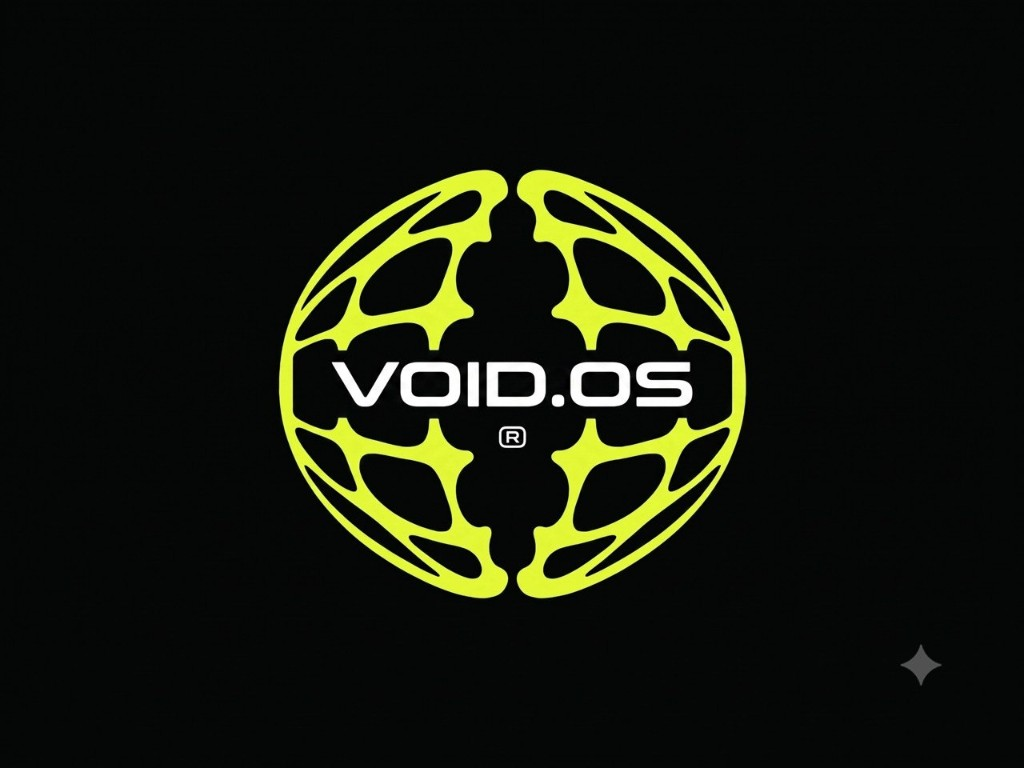
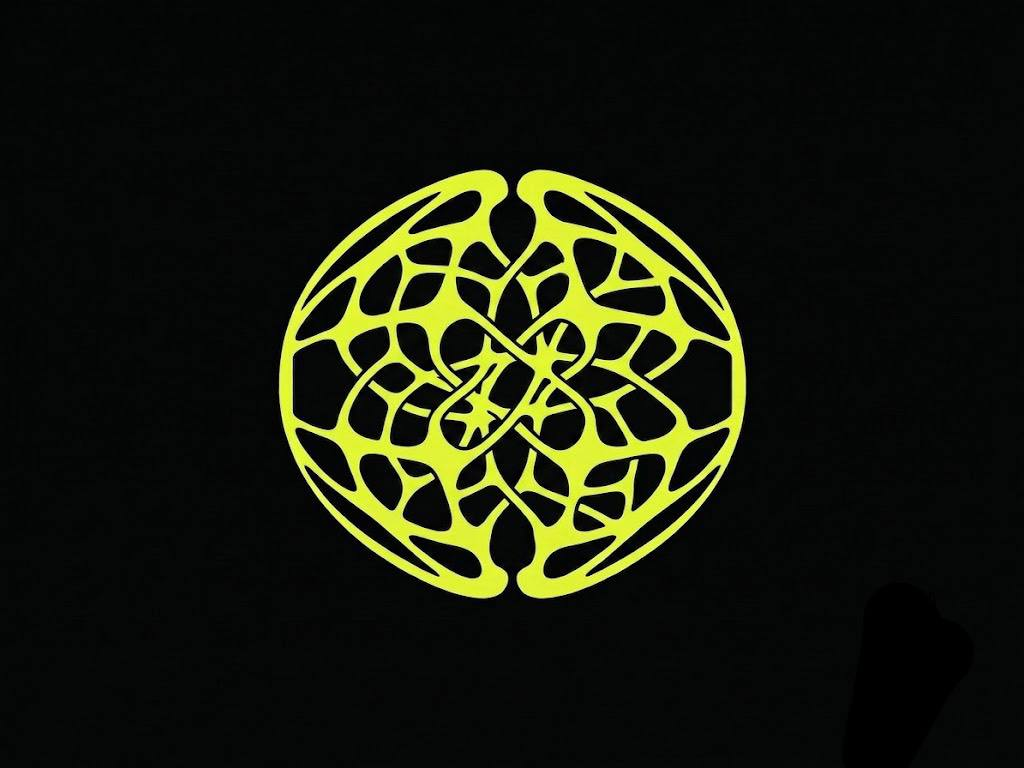
Swap in the new lime mark and keep the mobile hero demo card from covering the copy.

diff --git a/src/legacy/void.css b/src/legacy/void.css
@@ -75,14 +75,19 @@ body{background:#000;color:var(--text);font-family:'IBM Plex Mono',monospace;ove
 .hero-cosmos-slot{
   position:relative;z-index:8;
   width:100%;
+  max-width:100%;
   height:calc(100dvh - 108px);
   min-height:calc(100dvh - 108px);
   max-height:none;
   margin-right:clamp(-8px,-2vw,-24px);
+  overflow:hidden;
+  box-sizing:border-box;
 }
 .hero-cosmos-slot > .relative{
   height:100%;
   min-height:100%;
+  max-width:100%;
+  overflow:hidden;
 }
 .hero-right{
   position:relative;z-index:8;
@@ -217,7 +222,7 @@ body.arena-live .cosmos-bar,
   color:var(--text);font-family:'Syne',sans-serif;font-weight:800;font-size:12px;
   transition:border-color .18s ease-out,background .18s ease-out;
 }
-.arena-home img{width:18px;height:18px;border-radius:50%}
+.arena-home img{width:22px;height:22px;border-radius:50%;object-fit:cover}
 .arena-home em{font-style:normal;color:var(--lime)}
 .arena-home:hover{border-color:var(--lime);background:rgba(204,255,0,.08)}
 
@@ -919,8 +924,8 @@ body.arena-live .void-toast.claim.show{
      stretching to fill that leftover height is what let the cosmos slot's
      box — and the absolute-positioned LIVE DEMO prompt inside it — grow
      past its real content height and bleed into the section below. */
-  .hero{grid-template-columns:1fr;align-content:start;padding-top:max(72px, calc(env(safe-area-inset-top) + 56px));gap:12px;padding-bottom:16px;padding-left:max(12px, env(safe-area-inset-left));padding-right:max(12px, env(safe-area-inset-right))}
-  .hero-left{order:1;min-width:0;width:100%}
+  .hero{grid-template-columns:1fr;align-content:start;padding-top:max(72px, calc(env(safe-area-inset-top) + 56px));gap:12px;padding-bottom:16px;padding-left:max(16px, env(safe-area-inset-left));padding-right:max(16px, env(safe-area-inset-right));overflow-x:hidden}
+  .hero-left{order:1;min-width:0;width:100%;max-width:100%;overflow:visible;z-index:14}
   /* Slot/right sizing at this breakpoint lives in phoneMap.css (loaded
      after this file everywhere it's imported, so it's the rule that
      actually wins) — a second, differently-numbered copy used to be

diff --git a/src/components/Hero.jsx b/src/components/Hero.jsx
@@ -255,14 +255,14 @@ export function Hero() {
                 animate={{ opacity: 1 }}
                 exit={{ opacity: 0 }}
                 transition={{ duration: 0.4, ease: EASE_OUT }}
-                className="hero-map-prompt absolute inset-0 z-30 flex items-center justify-center bg-black/55 backdrop-blur-md pointer-events-none"
+                className="hero-map-prompt absolute inset-0 z-30 flex items-center justify-center overflow-hidden bg-black/55 backdrop-blur-md pointer-events-none"
               >
                 <motion.div
                   initial={{ opacity: 0, scale: 0.95, y: 10 }}
                   animate={{ opacity: 1, scale: 1, y: 0 }}
                   exit={{ opacity: 0, scale: 0.95, y: 10 }}
                   transition={{ type: 'spring', stiffness: 260, damping: 24 }}
-                  className="pointer-events-auto my-6 w-[90vw] max-w-xs mx-auto rounded-2xl border border-lime/25 bg-black/80 p-6 text-center shadow-[0_0_40px_rgba(204,255,0,0.12)]"
+                  className="pointer-events-auto mx-3 my-3 w-full max-w-[18rem] max-h-full overflow-y-auto rounded-2xl border border-lime/25 bg-black/80 p-5 text-center shadow-[0_0_40px_rgba(204,255,0,0.12)] sm:p-6"
                 >
                   <p className="mb-1 text-[10px] tracking-[0.2em] text-lime/70">LIVE DEMO</p>
                   <h3 className="mb-2 font-display text-lg font-extrabold text-white">

diff --git a/index.html b/index.html
@@ -27,7 +27,7 @@
   </head>
   <body>
     <div id="boot-html" style="position:fixed;inset:0;z-index:500000;display:flex;flex-direction:column;align-items:center;justify-content:center;background:#050505;color:#f0f0f0;font-family:IBM Plex Mono,ui-monospace,monospace">
-      <img src="/assets/void-logo.png" alt="" width="32" height="32" style="margin-bottom:16px" />
+      <img src="/assets/void-logo.png" alt="" width="40" height="40" style="margin-bottom:16px;border-radius:50%;object-fit:cover" />
       <div style="font-family:Syne,sans-serif;font-weight:800;font-size:28px;letter-spacing:-0.03em">VOID<span style="color:#ccff00">.OS</span></div>
       <div id="boot-html-cap" style="margin-top:12px;font-size:11px;letter-spacing:0.28em;text-transform:uppercase;color:#ccff00">booting</div>
     </div>

diff --git a/src/pages/Documentation.jsx b/src/pages/Documentation.jsx
@@ -209,7 +209,7 @@ function DocumentationContent() {
       <header className="sticky top-0 z-20 border-b border-white/10 bg-void/90 px-5 py-4 backdrop-blur-md sm:px-10">
         <div className="mx-auto flex max-w-5xl items-center justify-between">
           <Link to="/" className="flex items-center gap-2.5">
-            <img src="/assets/void-logo.png" alt="" className="h-6 w-6" />
+            <img src="/assets/void-logo.png" alt="" className="h-8 w-8 rounded-full object-cover" />
             <span className="font-display text-sm font-extrabold tracking-wide text-ink">
               VOID<span className="text-lime">.OS</span>{' '}
               <span className="text-muted-2">/ docs</span>

diff --git a/src/components/BootSplash.jsx b/src/components/BootSplash.jsx
@@ -83,7 +83,7 @@ export function BootSplash({ ready, onDone }) {
       <div className="relative mb-8 flex h-16 w-16 items-center justify-center">
         <span className="absolute inset-0 animate-ping rounded-full border border-lime/30" />
         <span className="absolute inset-2 animate-pulse rounded-full border border-lime/50" />
-        <img src="/assets/void-logo.png" alt="" className="relative h-8 w-8" />
+        <img src="/assets/void-logo.png" alt="" className="relative h-10 w-10 rounded-full object-cover" />
       </div>
       <p className="font-display text-2xl font-extrabold tracking-tight text-ink sm:text-3xl">
         VOID<span className="text-lime">.OS</span>

diff --git a/src/pages/Board.jsx b/src/pages/Board.jsx
@@ -8,7 +8,7 @@ export default function Board() {
     <div className="min-h-screen bg-void text-ink">
       <header className="relative z-10 flex items-center justify-between gap-3 px-4 py-5 sm:px-10">
         <Link to="/" className="flex items-center gap-2.5">
-          <img src="/assets/void-logo.png" alt="" className="h-6 w-6" />
+          <img src="/assets/void-logo.png" alt="" className="h-8 w-8 rounded-full object-cover" />
           <span className="font-display text-sm font-extrabold tracking-wide">
             VOID<span className="text-lime">.OS</span>
           </span>

diff --git a/src/components/Footer.jsx b/src/components/Footer.jsx
@@ -61,7 +61,7 @@ export function Footer() {
       <div className="flex flex-col gap-8 sm:flex-row sm:items-start sm:justify-between">
         <div className="max-w-xs">
           <div className="flex items-center gap-2.5">
-            <img src="/assets/void-logo.png" alt="" className="h-6 w-6" />
+            <img src="/assets/void-logo.png" alt="" className="h-8 w-8 rounded-full object-cover" />
             <span className="font-display text-base font-extrabold tracking-tight text-ink">
               VOID<span className="text-lime">.OS</span>
             </span>

diff --git a/src/pages/Cabinet.jsx b/src/pages/Cabinet.jsx
@@ -172,7 +172,7 @@ export default function Cabinet() {
 
       <header className="relative z-10 flex items-center justify-between px-5 py-5 sm:px-10">
         <Link to="/" className="flex items-center gap-2.5">
-          <img src="/assets/void-logo.png" alt="" className="h-6 w-6" />
+          <img src="/assets/void-logo.png" alt="" className="h-8 w-8 rounded-full object-cover" />
           <span className="font-display text-sm font-extrabold tracking-wide">
             VOID<span className="text-lime">.OS</span>
           </span>

diff --git a/src/components/Nav.jsx b/src/components/Nav.jsx
@@ -100,7 +100,7 @@ export function Nav() {
             }
           }}
         >
-          <img src="/assets/void-logo.png" alt="" className="h-6 w-6 shrink-0" />
+          <img src="/assets/void-logo.png" alt="" className="h-8 w-8 shrink-0 rounded-full object-cover" />
           <span className="font-display text-sm font-extrabold tracking-wide text-ink">
             VOID<span className="text-lime">.OS</span>
           </span>

diff --git a/src/index.css b/src/index.css
@@ -62,6 +62,19 @@ body {
   .hero-left {
     min-width: 0;
     width: 100%;
+    max-width: 100%;
+    padding-left: 0;
+    padding-right: 0;
+  }
+
+  .hero-left .lead,
+  .hero-left .price-note {
+    display: block;
+    width: 100%;
+    max-width: 100% !important;
+    box-sizing: border-box;
+    overflow-wrap: anywhere;
+    word-break: break-word;
   }
 }
 

diff --git a/src/legacy/phoneMap.css b/src/legacy/phoneMap.css
@@ -28,6 +28,12 @@
     display: flex;
     flex-direction: column;
     gap: 10px;
+    overflow: hidden;
+  }
+
+  .hero-right:not(.in-arena) {
+    mask-image: none !important;
+    -webkit-mask-image: none !important;
   }
 
   .hero-right:not(.in-arena) {
